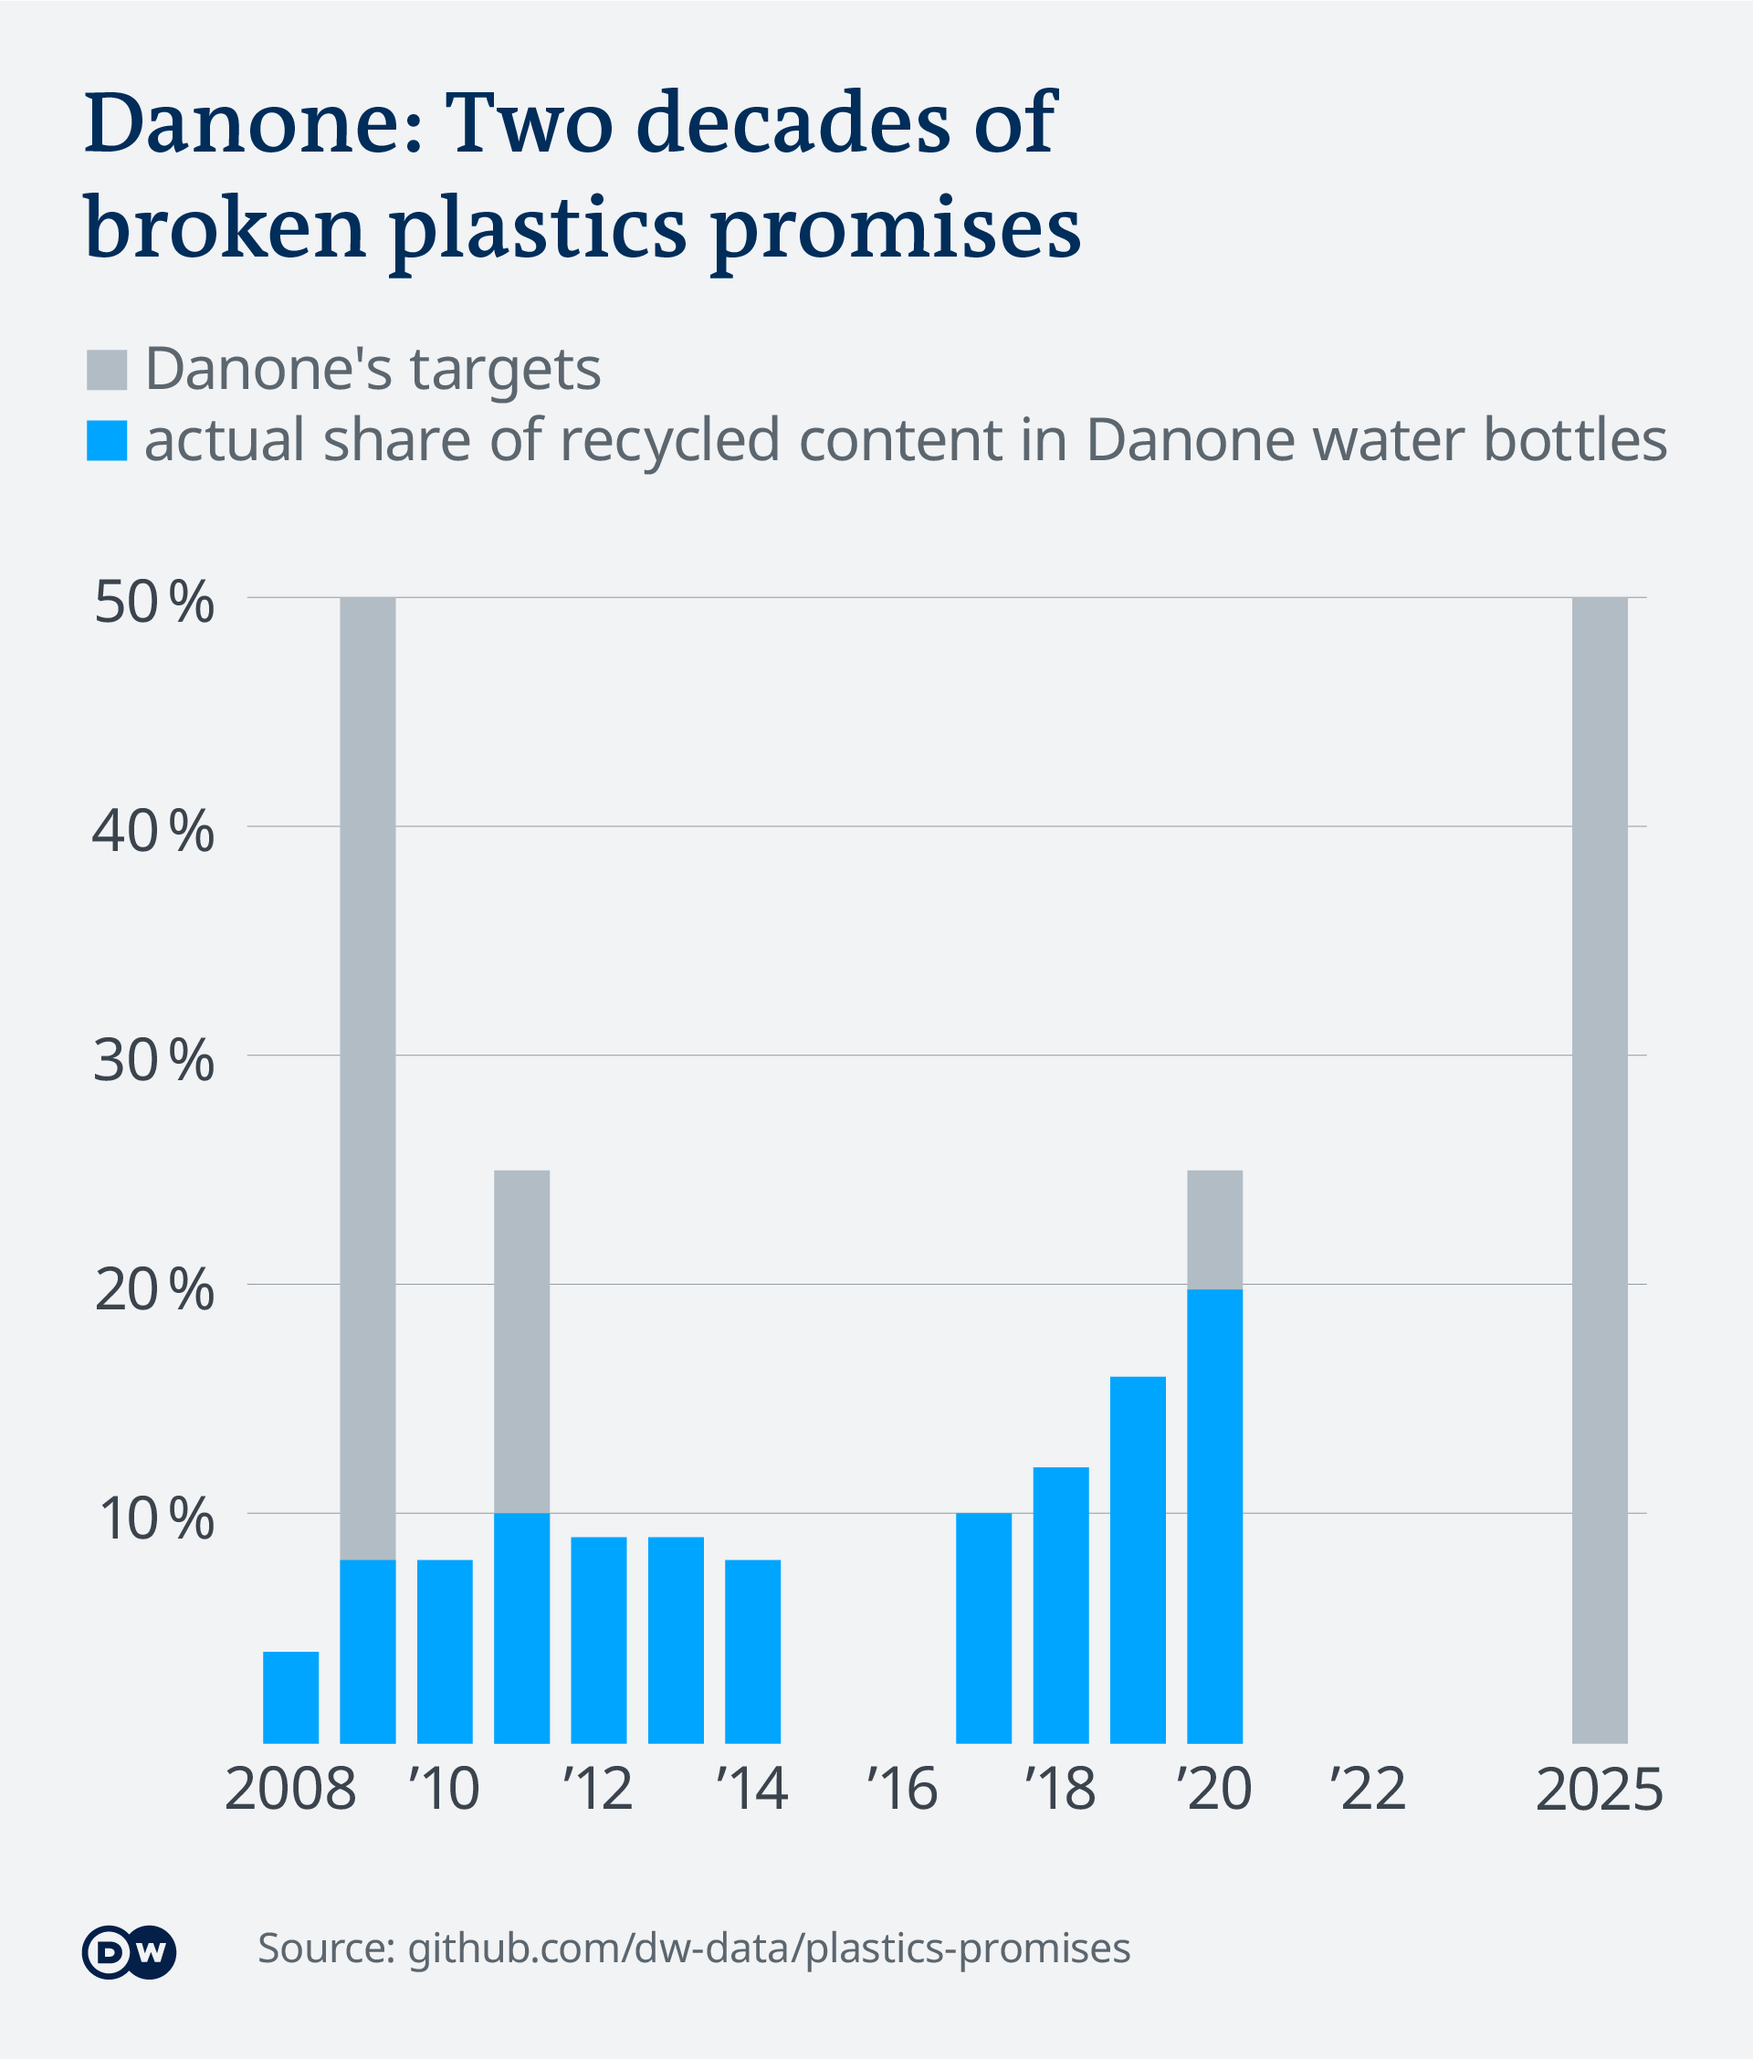
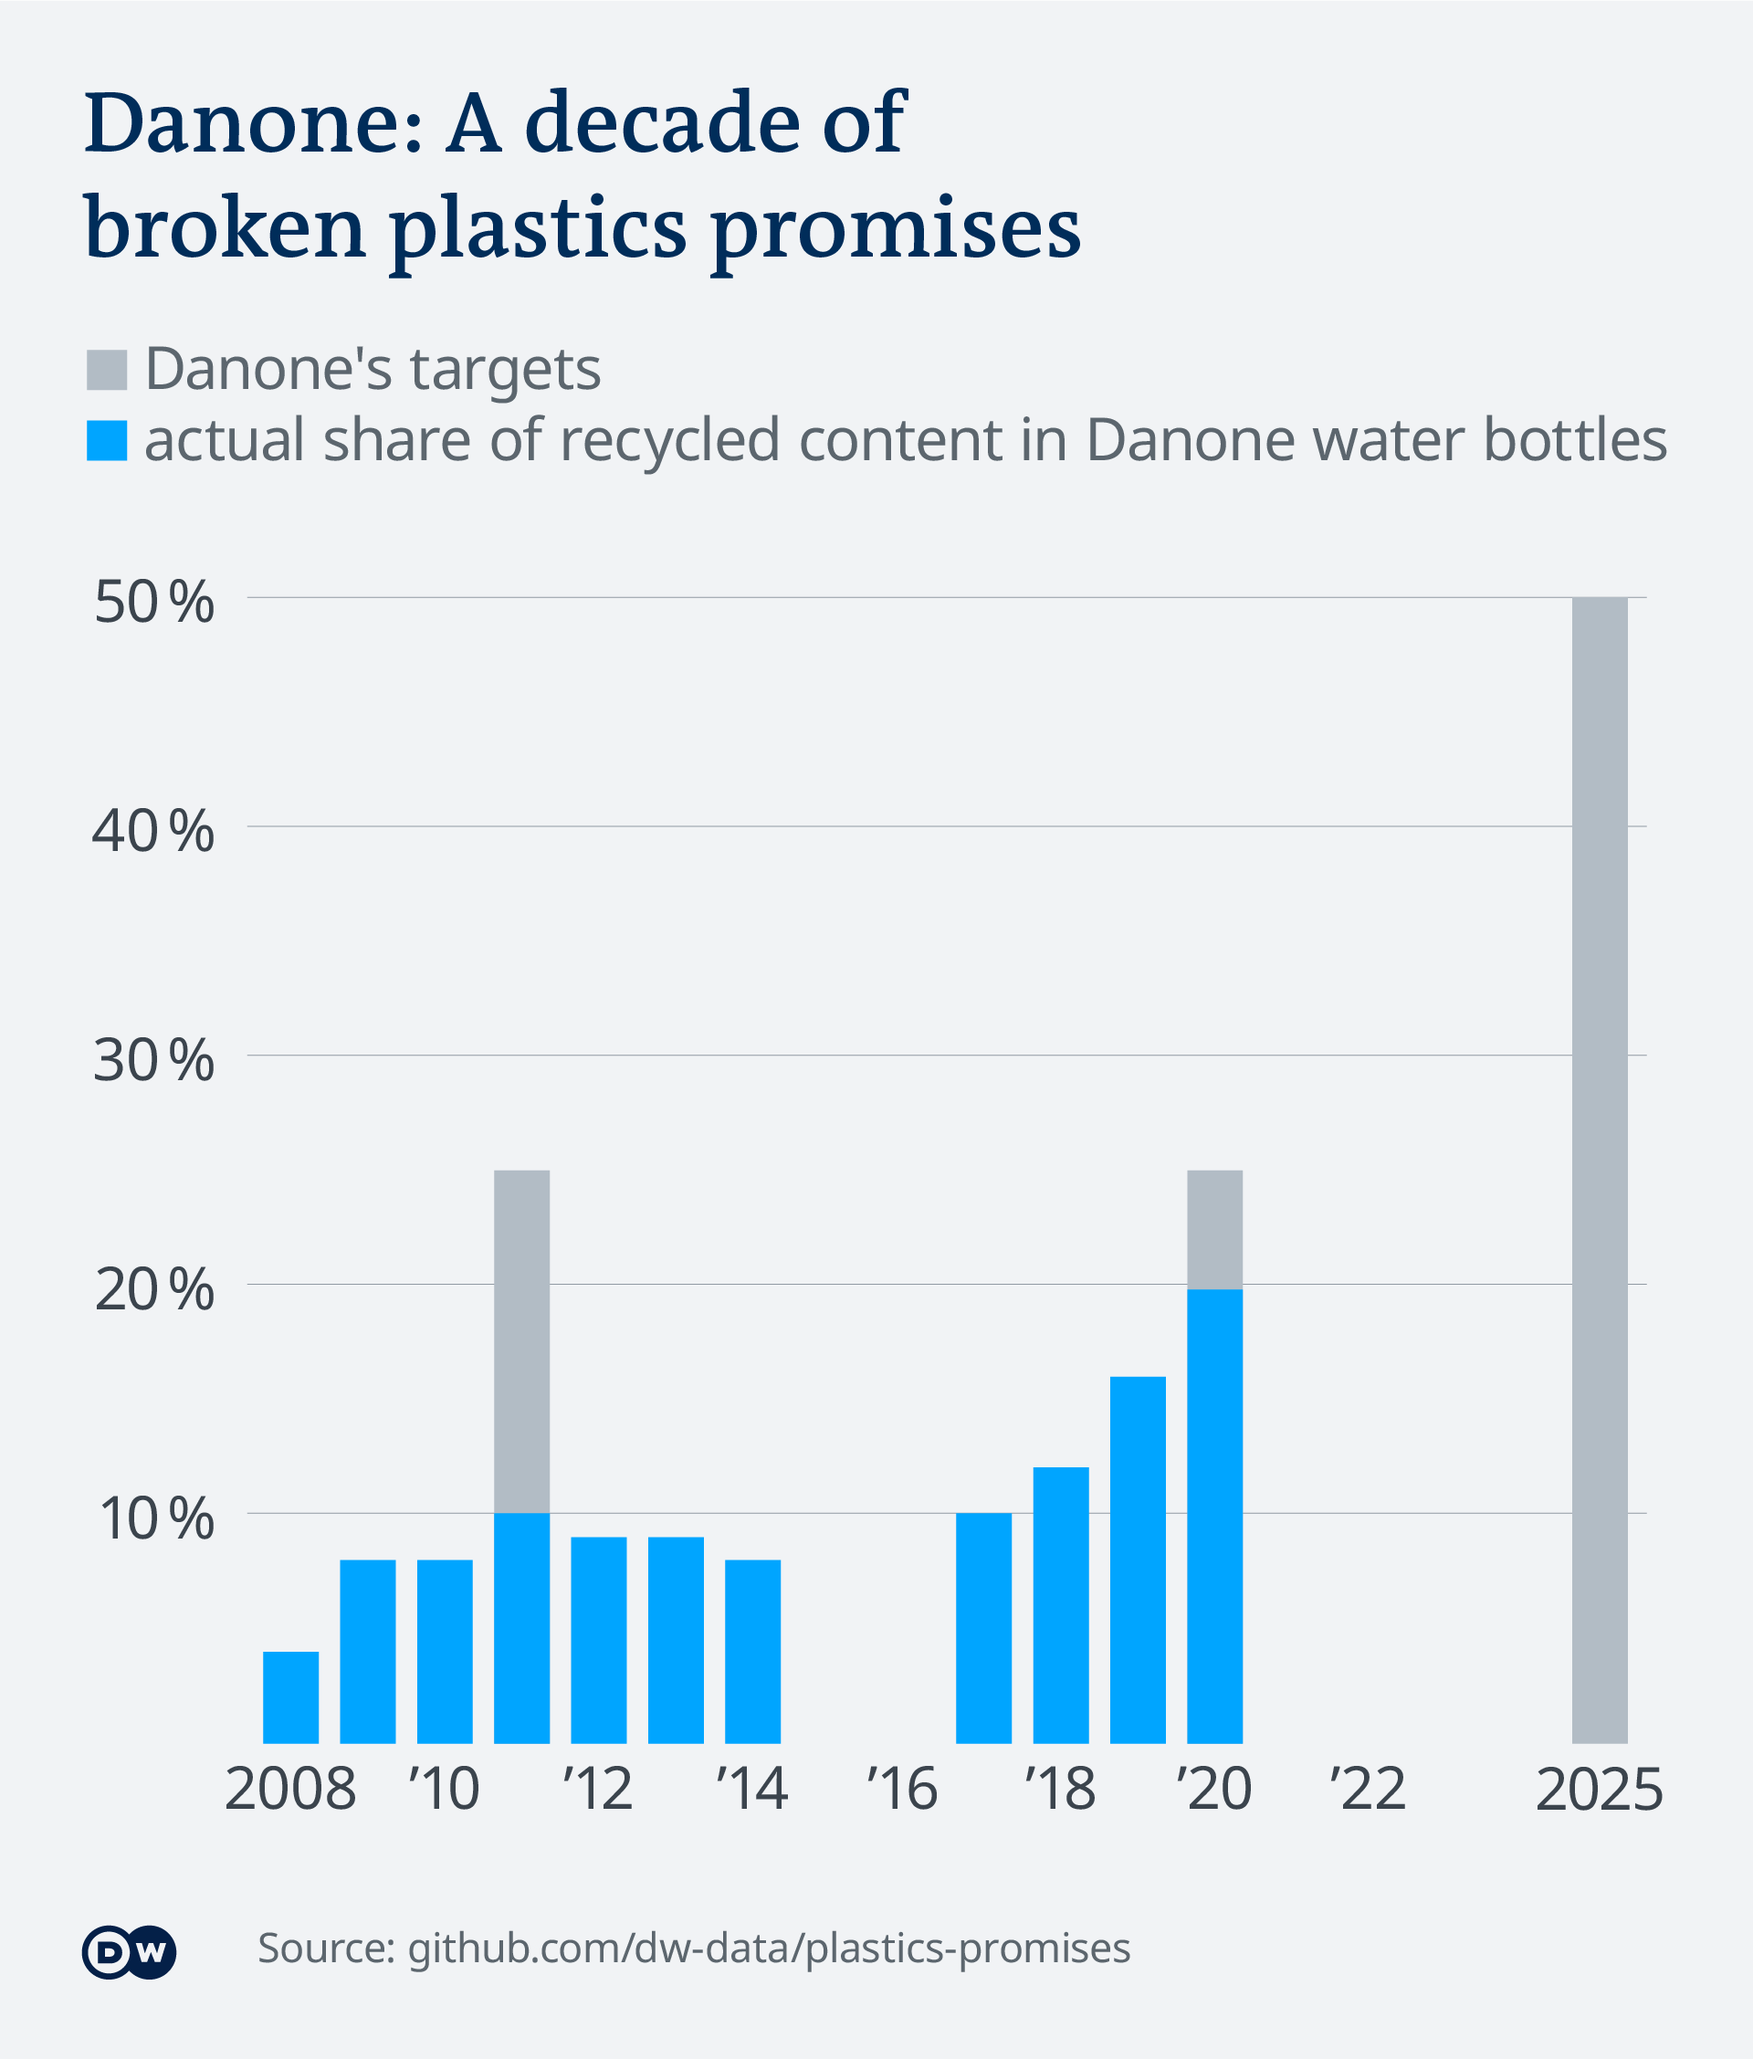
correct Danone 2008 info in chart and Readme

Changed region(s): [[0.1875, 0.2794, 0.25, 0.7761], [0.25, 0.031, 0.5938, 0.0931]]

diff --git a/README.md b/README.md
@@ -135,7 +135,7 @@ Here are the sources behind the chart, listed also in the "Analysis" sheet of th
 | year | pledge | reality:<br>"where it's allowed" | reality:<br>"worldwide" | source              |
 |------|--------|--------------------|-----------|-------------------------------------------------|
 | 2008 |        |                 4% |        4% | [SR 2011, p. 156](https://drive.google.com/file/d/1s57bIoPU-kZQf1nUFMVuLpPuexgVWOjr/view) |
-| 2009 |    50% |                 8% |        8% | [SR 2014, p. 81](https://drive.google.com/file/d/1awWgJRX1LMAnLW-DbwsYqUfqN29G0obl/view?usp=sharing)                                  |
+| 2009 |        |                 8% |        8% | [SR 2014, p. 81](https://drive.google.com/file/d/1awWgJRX1LMAnLW-DbwsYqUfqN29G0obl/view?usp=sharing)                                  |
 | 2010 |        |                 8% |        8% | [SR 2014, p. 81](https://drive.google.com/file/d/1awWgJRX1LMAnLW-DbwsYqUfqN29G0obl/view?usp=sharing)                                  |
 | 2011 |    25% |                10% |       10% | [SR 2014, p. 81](https://drive.google.com/file/d/1awWgJRX1LMAnLW-DbwsYqUfqN29G0obl/view?usp=sharing)                                  |
 | 2012 |        |                 9% |        9% | [SR 2014, p. 81](https://drive.google.com/file/d/1awWgJRX1LMAnLW-DbwsYqUfqN29G0obl/view?usp=sharing)                                  |
